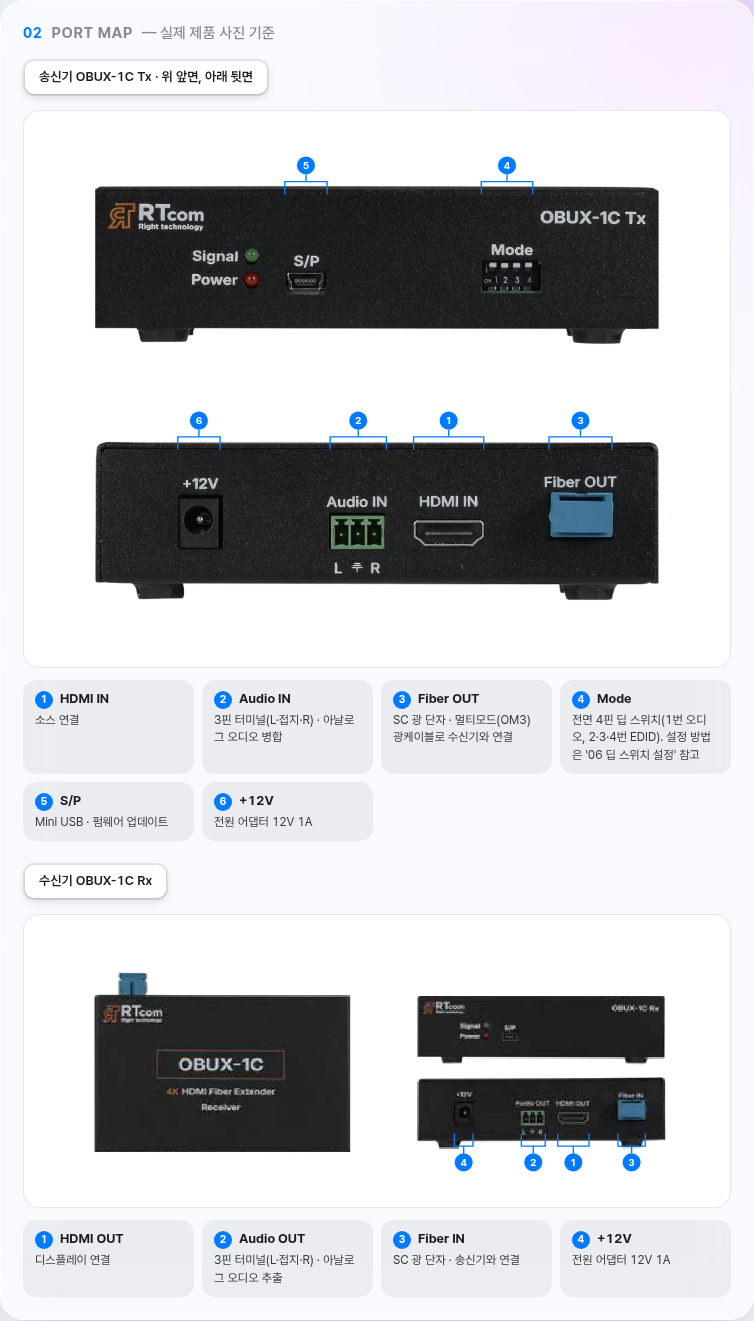
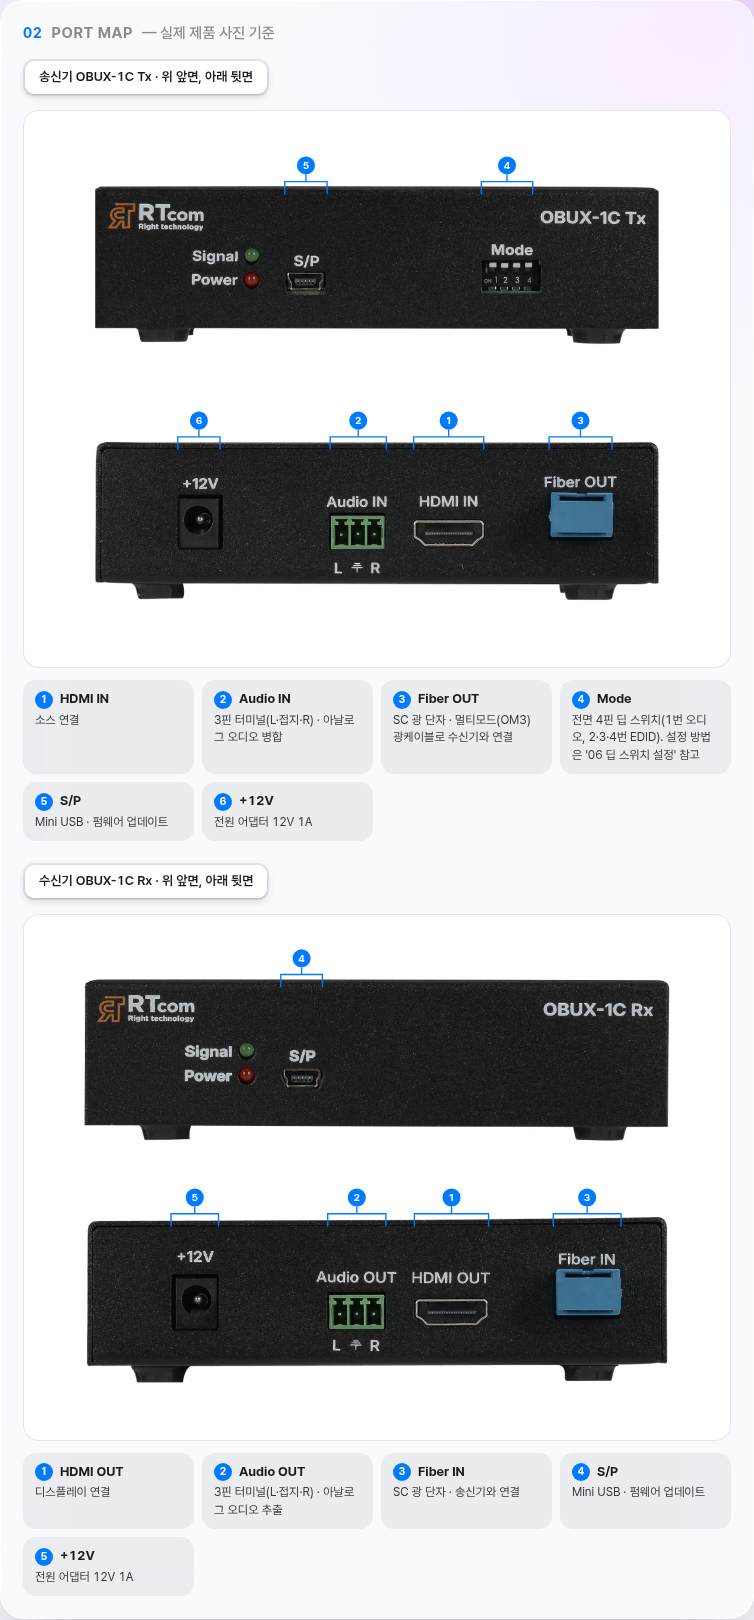
data: OBUX-1C 수신기 합성 사진 통일, CT103-U-H/CR103-U 04 제품 사양 요약
- OBUX-1C 수신기(Rx) 정면·후면 실물 사진을 송신기와 같은 위아래 합성
  사진으로 묶고 단자 지도를 번호 5개(S/P 추가)로 다시 쟀다.
- CT103-U-H/CR103-U 04 제품 사양에서 값이 같은 CT·CR 행을 공통 행으로
  합치고 핀 배열·330ft 병기·중복 문구를 정리했다(15행 → 12행).
- QA 기록과 CHANGELOG Unreleased 추가.

Claude-Session: https://claude.ai/code/session_01V3dms2CC6NHWtyRSKKrJnV

diff --git a/docs/qa/OBUX_CT103U_QA_2026-09-28.md b/docs/qa/OBUX_CT103U_QA_2026-09-28.md
@@ -1,0 +1,40 @@
+# OBUX-1C 고해상도 사진 · CT103-U-H/CR103-U 사양 요약 QA (2026-09-28)
+
+## 1. OBUX-1C 송신기(Tx)·수신기(Rx) 고해상도 실물 사진
+
+- 요청: 사용자 "OBUX TX사진이야"(Tx 후면·정면 2장, 2000×1251 투명 배경 webp).
+- 처리: 투명 배경 알파 영역(정면 528–1461×481–744, 후면 554–1468×485–742)을 40px 여백으로 잘라 흰 배경에 붙였습니다. 후면 몸체 폭(914px)을 정면(933px)에 맞춰 1.021배 키웠습니다.
+- 새 파일(`output/design/assets/products/`):
+  - `obux-1c-tx-front.webp` 1013×343 (Front)
+  - `obux-1c-tx-rear.webp` 1015×344 (Rear)
+  - `obux-1c-tx-front-rear.webp` 1015×767 (Other, 위 정면 · 80px 간격 · 아래 후면)
+  - `obux-1c-rx-front-rear.webp` 1034×728 (Other, 다른 세션 커밋 3f9acb9의 Rx 정면·후면 사진을 같은 방식으로 합성)
+- 단자 지도:
+  - 송신기: 1 HDMI IN · 2 Audio IN · 3 Fiber OUT · 4 Mode(06 딥 스위치 설정 참고) · 5 S/P(Mini USB) · 6 +12V(전원 마지막)
+  - 수신기: 1 HDMI OUT · 2 Audio OUT · 3 Fiber IN · 4 S/P · 5 +12V
+  - 두 지도 모두 `portMap.file`로 합성 사진을 지정합니다(같은 Other·Front 역할 사진이 여러 장이라서).
+- 카드 대표 사진(Main, 카탈로그 42쪽)은 그대로 두었습니다.
+- 스크린샷: `docs/qa/obux-tx-hires-screens/obux-portmap-1280.png`, `obux-portmap-390.png`(휴대폰은 기존처럼 가로 스크롤, 페이지 가로 넘침 없음).
+
+## 2. CT103-U-H / CR103-U 04 제품 사양 요약
+
+- 요청: 사용자 "CT103-U-H / CR103-U 제품 사양서도 요약형태로 수정해줘". XDM-CT103/CR103 요약(0.65.0, "중복표기 삭제하고 최대한 요약")과 같은 기준을 적용했습니다.
+- 15행 → 12행:
+  - 지원 해상도·최대 전송거리: CT·CR 값이 같아 공통 행 하나로 합침
+  - 규격: 한 행으로 합치고 조건에 "CR103-U는 HDMI 1.4b"만 남김
+  - 입력·출력 신호: 핀 배열 표기 "HDBaseT 0,1,2,3+/-" → "HDBaseT 1 Port"; CR103-U 출력 "DVI / HDMI (TMDS), 3.5mm stereo audio" → "HDMI 1 Port, 3.5mm Stereo Audio 1 Port"; 입력 신호의 INPUT 버튼 중복 문구 정리
+  - 330ft 병기 삭제(0.72.0 인치·lbs 정리와 같은 기준), 전원 조건 "CR103-U 최대 15W" → "CR103-U 소비전력 최대 15W"
+- 값(해상도, 100m, DC +12V 2A, 크기, 무게) 자체는 바꾸지 않았습니다.
+- 스크린샷: `docs/qa/ct103u-spec-summary-screens/ct103u-spec-1280.png`, `ct103u-spec-390.png`
+
+## 3. 검증
+
+- `node --test tests/*.test.cjs`: 39/39
+- `node scripts/build-product-index.cjs --check`: 제품 30개 통과
+- `node scripts/package-site.cjs`: dist 생성
+- `node scripts/e2e-smoke.cjs`: 141/141(OBUX-1C 송신기 합성 사진 번호 6개·수신기 5개 검사 추가)
+- `git diff --check`: 통과
+
+## 4. 되돌리기
+
+- 이 커밋을 `git revert`하면 OBUX-1C는 다른 세션의 Rx 사진 커밋(3f9acb9) 상태로, CT103-U-H/CR103-U 사양은 15행으로 돌아갑니다.

diff --git a/CHANGELOG.md b/CHANGELOG.md
@@ -6,6 +6,8 @@
 
 - **HDS-21U 고해상도 실물 사진**(사용자 제공, 0.72.0 목표): 정면·후면·단자 지도 합성 사진을 카탈로그 사진(783px)에서 고해상도 실물 사진(약 1400px)으로 바꾸고 06 EDID 설정 링과 단자 지도 번호 좌표를 새 사진에 맞춰 다시 쟀습니다. QA: `docs/qa/HDS21U_HIRES_PHOTO_QA_2026-09-28.md`.
 - **XDM-PSU 전원 장치 반영**(사용자 제공 XDM-POE ASSY 도면·구성도, 사용자 결정 2026-09-28, 0.72.0 목표): CIS100·COS100에 연결한 XDM-CTR100은 XDM-PSU로 전원을 받아 개별 어댑터가 필요 없도록 구성기 안내·검토 문구를 바꾸고, BOM의 임시 "전원 공급 장비"를 XDM-PSU(16칸당 1대)·XDM-POH(CTR100 Tx 1대당 1개)·XDM-PHX(COS100 1장당 1개)로 나눴습니다. XDM-PSU 제품정보(30번째, 전송기 14종)와 XDM 시리즈·CTR100 연결 설명·04 전송기 라인업을 추가·갱신했습니다. CT103/CR103 표기는 그대로입니다. QA: `docs/qa/XDM_PSU_QA_2026-09-28.md`.
+- **OBUX-1C 송신기·수신기 고해상도 실물 사진**(사용자 제공 "OBUX TX사진이야", 0.72.0 목표): 송신기(Tx) 정면·후면 사진을 흰 배경으로 잘라 위아래 합성 사진을 만들고, 송신기 단자 지도를 번호 6개(HDMI IN·Audio IN·Fiber OUT·Mode·S/P·+12V)로 다시 쟀습니다. 다른 세션이 먼저 올린 수신기(Rx) 실물 사진도 같은 방식의 위아래 합성 사진으로 묶어 번호 5개(S/P 추가)로 맞췄습니다. 카드 대표 사진(카탈로그 사진)은 그대로입니다. 근거: `docs/qa/OBUX_CT103U_QA_2026-09-28.md`.
+- **CT103-U-H / CR103-U 04 제품 사양 요약**(사용자 요청 "CT103-U-H / CR103-U 제품 사양서도 요약형태로 수정해줘", 0.72.0 목표): 값이 같은 CT·CR 행(지원 해상도·최대 전송거리·규격)을 공통 행 하나로 합치고, 핀 배열 표기(HDBaseT 0,1,2,3+/-)를 "HDBaseT 1 Port"로, 입력 신호의 INPUT 버튼 중복 문구와 330ft 병기를 정리했습니다(15행 → 12행). XDM-CT103/CR103 요약(0.65.0)과 같은 방식입니다.
 - **0.71.0 배포 기록**: `docs/qa/DEPLOYMENT_0.71_2026-09-28.md`(PR #57 → main 병합·배포, 공개 파일 205/205 일치, 브랜치 배포 없음)
 
 ## 0.72.0
